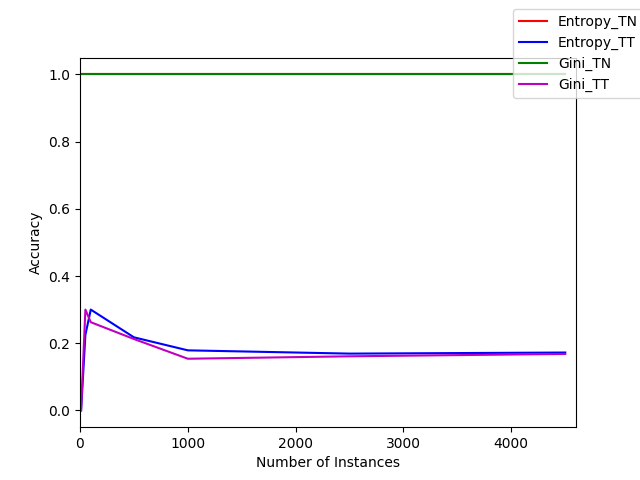
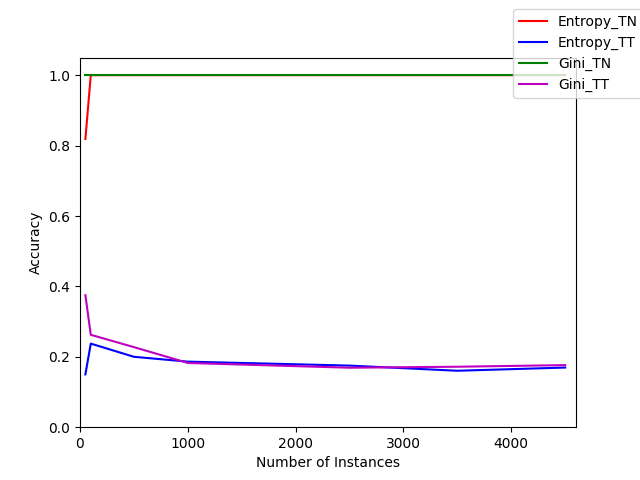
Finishing decision tree tests

diff --git a/main.py b/main.py
@@ -10,8 +10,8 @@ from utils.N_Fold import N_Fold
 from utils.graph import graph_DT_data
 
 def test_DT():
-    domains = [load_spambase_data]
-    num_instances = [10, 50, 100, 500, 1000, 2500, 4500]
+    domains = [load_EMG_data, load_optdigits_data, load_spambase_data]
+    num_instances = [50, 100, 500, 1000, 2500, 3500, 4500]
     # num_instances = [4500]
     info_gains = [Info_Gain.Entropy, Info_Gain.Gini]
 

diff --git a/utils/graph.py b/utils/graph.py
@@ -33,7 +33,7 @@ def graph_DT_data(data, num_instances, domain):
     plt.ylabel('Accuracy')
     
     plt.xlim(0, 4600)
-    plt.ylim(0, 1.3)
+    plt.ylim(0, 1.05)
 
     filePath = os.path.join(sys.path[0], "Results", "DecisionTree", domain.__name__)
     plt.savefig(filePath)
